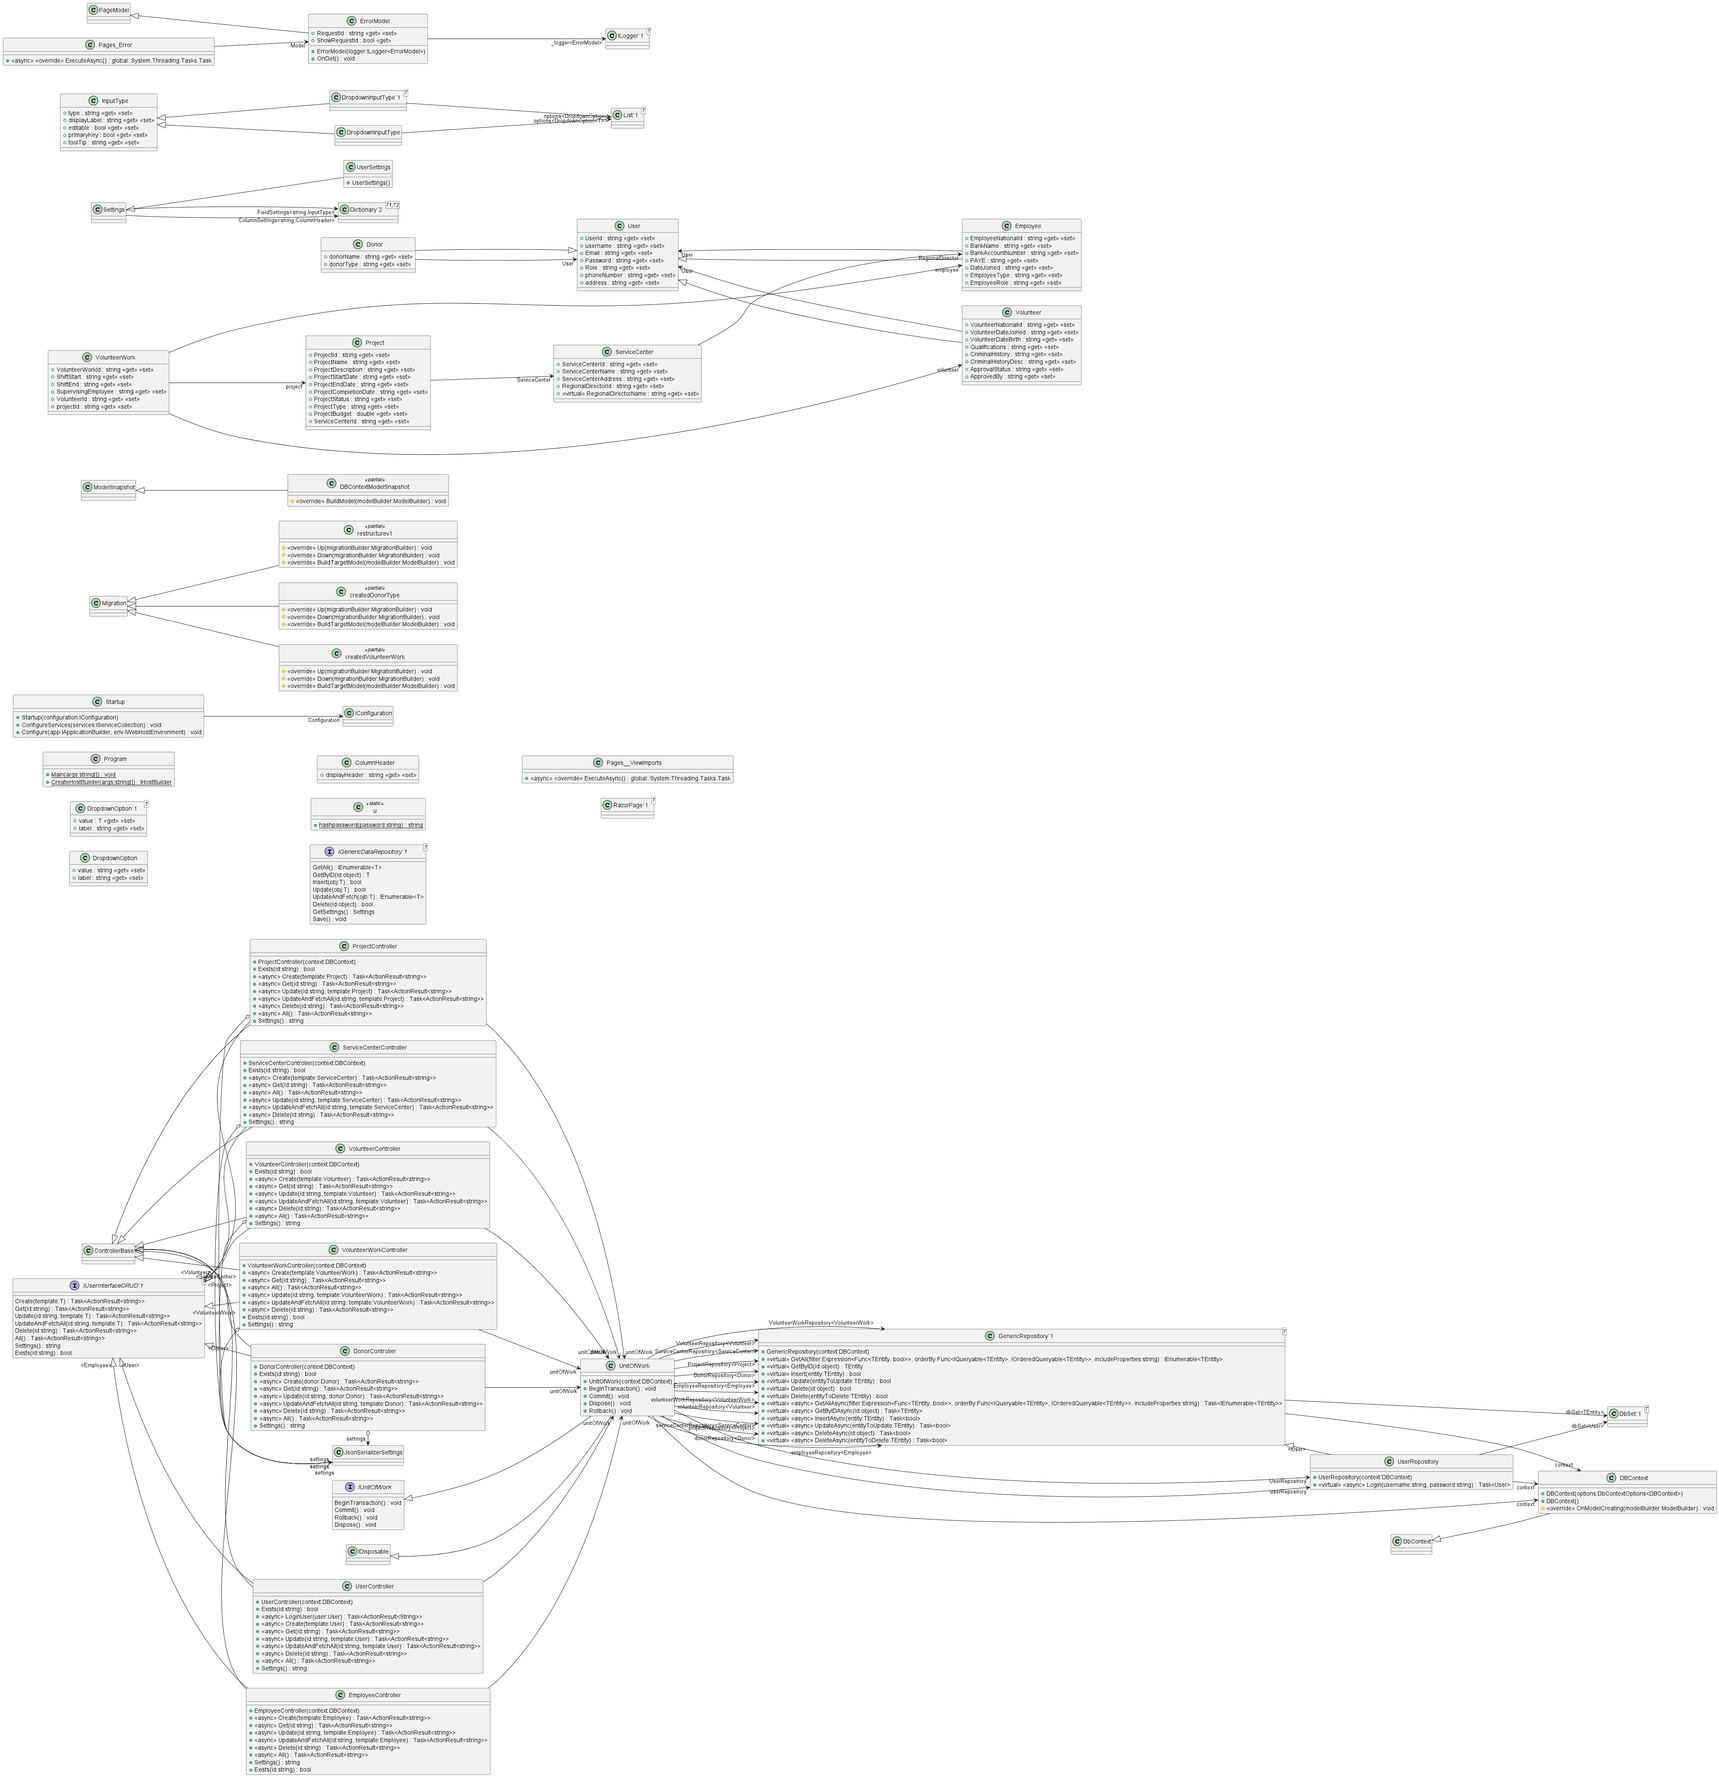
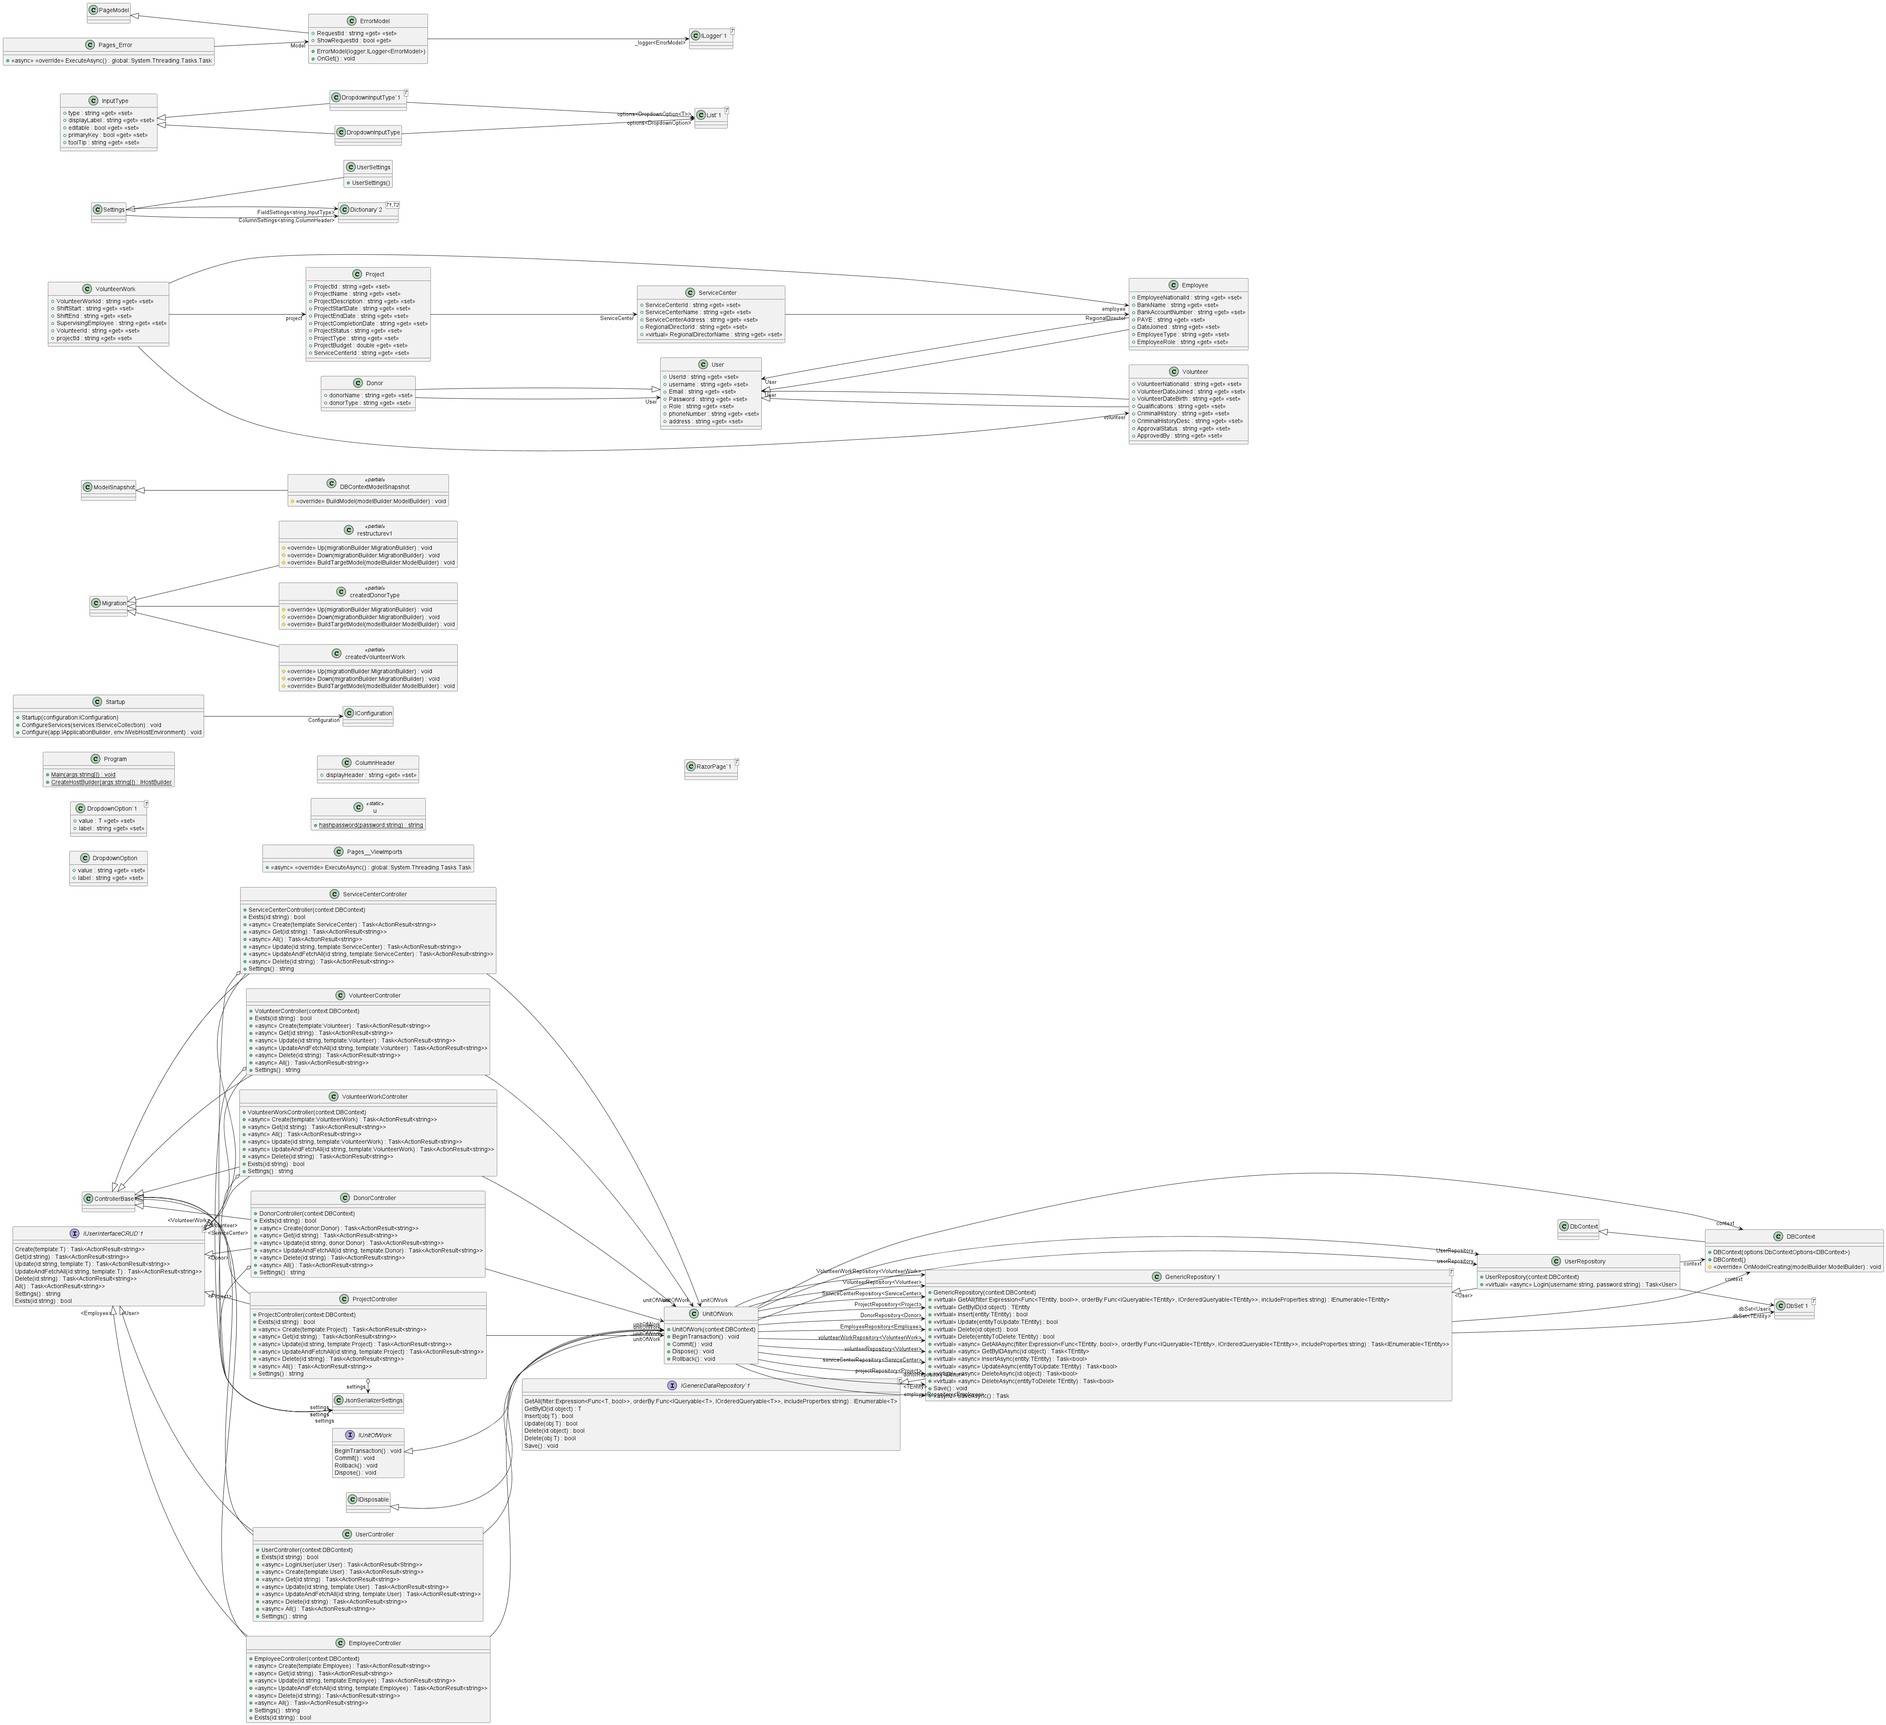
code cleanup

diff --git a/YouthActionDotNet/ClientApp/src/App.js b/YouthActionDotNet/ClientApp/src/App.js
@@ -131,7 +131,7 @@ class LoggedInNav extends React.Component {
   render() {
 
     return (
-      <Nav user={this.props.user} title={this.state.title
+      <Nav user={this.props.data} title={this.state.title
       } toggle={this.props.toggle} show={this.props.show}>
       </Nav>
     )

diff --git a/YouthActionDotNet/Controllers/UserController.cs b/YouthActionDotNet/Controllers/UserController.cs
@@ -38,7 +38,7 @@ namespace YouthActionDotNet.Controllers
             {
                 return JsonConvert.SerializeObject(new { success = false, message = "Invalid Username or Password" });
             }
-            return JsonConvert.SerializeObject(new { success = true, message = "Login Successful", user=validLoginUser });
+            return JsonConvert.SerializeObject(new { success = true, message = "Login Successful", data=validLoginUser });
         }
         
 
@@ -50,11 +50,11 @@ namespace YouthActionDotNet.Controllers
             if(existingUser != null){
                 return JsonConvert.SerializeObject(new { success = false, message = "User Already Exists" });
             }
-            template.UserId = Guid.NewGuid().ToString();
-            template.Password = u.hashpassword(template.Password);
-            await unitOfWork.UserRepository.InsertAsync(template);
-            unitOfWork.Commit();
-            var createdUser = await unitOfWork.UserRepository.GetByIDAsync(template.UserId);
+            
+            var createdUser = await unitOfWork.UserRepository.Register(template.username, template.Password);
+            if(createdUser == null){
+                return JsonConvert.SerializeObject(new { success = false, message = "Unexpected Error" });
+            }
             return JsonConvert.SerializeObject(new { success = true, data = template, message = "User Successfully Created" });
         }
 
@@ -79,7 +79,7 @@ namespace YouthActionDotNet.Controllers
             unitOfWork.UserRepository.Update(template);
             try
             {
-                unitOfWork.Commit();
+                await unitOfWork.UserRepository.SaveAsync();
                 return await Get(id);
             }
             catch (DbUpdateConcurrencyException)
@@ -105,7 +105,7 @@ namespace YouthActionDotNet.Controllers
             unitOfWork.UserRepository.Update(template);
             try
             {
-                unitOfWork.Commit();
+                await unitOfWork.UserRepository.SaveAsync();
                 return await All();
             }
             catch (DbUpdateConcurrencyException)

diff --git a/YouthActionDotNet/DAL/UserRepository.cs b/YouthActionDotNet/DAL/UserRepository.cs
@@ -1,3 +1,4 @@
+using System;
 using System.Threading.Tasks;
 using Microsoft.EntityFrameworkCore;
 using YouthActionDotNet.Data;
@@ -7,9 +8,6 @@ namespace YouthActionDotNet.DAL
 {
     public class UserRepository : GenericRepository<User>
     {   
-        internal DBContext context;
-        internal DbSet<User> dbSet;
-
         public UserRepository(DBContext context) : base(context)
         {
             this.context = context;
@@ -24,6 +22,31 @@ namespace YouthActionDotNet.DAL
                 return null;
             return user;
         }
-    
+
+        public virtual async Task<User> Register(string username, string password){
+            
+            System.Diagnostics.Debug.WriteLine(username);
+            System.Diagnostics.Debug.WriteLine(password);
+
+            Console.WriteLine(username);
+            Console.WriteLine(password);
+
+            string hashedPassword = u.hashpassword(password);
+            User template = new User();
+            template.username = username;
+            template.Password = hashedPassword;
+            
+            System.Diagnostics.Debug.WriteLine(template.UserId);
+            System.Diagnostics.Debug.WriteLine(template.username);
+            System.Diagnostics.Debug.WriteLine(template.Password);
+
+            var user = await dbSet.FirstOrDefaultAsync(u => u.username == template.username);
+            if (user == null){
+                dbSet.Add(template);
+                context.SaveChanges();
+                return await dbSet.FirstOrDefaultAsync(u => u.username == template.username && u.Password == hashedPassword);
+            }
+            return null;
+        }
     }
 }

diff --git a/YouthActionDotNet/Controllers/VolunteerWorkController.cs b/YouthActionDotNet/Controllers/VolunteerWorkController.cs
@@ -31,7 +31,6 @@ namespace YouthActionDotNet.Controllers
         [HttpPost("Create")]
         public async Task<ActionResult<string>> Create(VolunteerWork template)
         {
-            template.VolunteerWorkId = Guid.NewGuid().ToString();
             var volunteerWork = await unitOfWork.VolunteerWorkRepository.InsertAsync(template);
             return JsonConvert.SerializeObject(new { success = true, message = "Volunteer Work Created", data = volunteerWork }, settings);
         }
@@ -64,7 +63,7 @@ namespace YouthActionDotNet.Controllers
             await unitOfWork.VolunteerWorkRepository.UpdateAsync(template);
             try
             {
-                unitOfWork.Commit();
+                await unitOfWork.VolunteerRepository.SaveAsync();
                 return JsonConvert.SerializeObject(new { success = true, message = "Volunteer Work Successfully Updated" }, settings);
             }
             catch (DbUpdateConcurrencyException)
@@ -90,7 +89,7 @@ namespace YouthActionDotNet.Controllers
             await unitOfWork.VolunteerWorkRepository.UpdateAsync(template);
             try
             {
-                unitOfWork.Commit();
+                await unitOfWork.VolunteerRepository.SaveAsync();
                 var volunteerWork = await unitOfWork.VolunteerWorkRepository.GetAllAsync();
                 return JsonConvert.SerializeObject(new { success = true, data = volunteerWork, message = "Volunteer Work Successfully Updated" }, settings);
             }

diff --git a/YouthActionDotNet/Controllers/ServiceCenterController.cs b/YouthActionDotNet/Controllers/ServiceCenterController.cs
@@ -34,7 +34,6 @@ namespace YouthActionDotNet.Controllers
         [HttpPost("Create")]
         public async Task<ActionResult<string>> Create(ServiceCenter template)
         {
-            template.ServiceCenterId = Guid.NewGuid().ToString();
             var serviceCenter = await unitOfWork.ServiceCenterRepository.InsertAsync(template);
             return JsonConvert.SerializeObject(new { success = true, message = "Service Center Created", data = serviceCenter }, settings);
         }
@@ -65,7 +64,7 @@ namespace YouthActionDotNet.Controllers
             await unitOfWork.ServiceCenterRepository.UpdateAsync(template);
             try
             {
-                unitOfWork.Commit();
+                await unitOfWork.ServiceCenterRepository.SaveAsync();
                 return JsonConvert.SerializeObject(new { success = true, message = "Service Center Updated", data = template }, settings);
 
             }
@@ -91,7 +90,7 @@ namespace YouthActionDotNet.Controllers
             await unitOfWork.ServiceCenterRepository.UpdateAsync(template);
             try
             {
-                unitOfWork.Commit();
+                await unitOfWork.ServiceCenterRepository.SaveAsync();
                 var serviceCenter = await unitOfWork.ServiceCenterRepository.GetAllAsync();
                 return JsonConvert.SerializeObject(new { success = true, data = serviceCenter, message = "Service Center Updated" });
             }

diff --git a/YouthActionDotNet/Controllers/EmployeeController.cs b/YouthActionDotNet/Controllers/EmployeeController.cs
@@ -34,7 +34,6 @@ namespace YouthActionDotNet.Controllers
             if(existingEmployee != null){
                 return JsonConvert.SerializeObject(new { success = false, message = "Employee Already Exists" });
             }
-            template.UserId = Guid.NewGuid().ToString();
             template.Password = u.hashpassword(template.Password);
             await unitOfWork.EmployeeRepository.InsertAsync(template);
             unitOfWork.Commit();
@@ -62,7 +61,7 @@ namespace YouthActionDotNet.Controllers
             await unitOfWork.EmployeeRepository.UpdateAsync(template);
             try
             {
-                unitOfWork.Commit();
+                await unitOfWork.EmployeeRepository.SaveAsync();
                 return JsonConvert.SerializeObject(new { success = true, data = template, message = "Employee Successfully Updated" });
             }
             catch (DbUpdateConcurrencyException)
@@ -87,7 +86,7 @@ namespace YouthActionDotNet.Controllers
             await unitOfWork.EmployeeRepository.UpdateAsync(template);
             try
             {
-                unitOfWork.Commit();
+                await unitOfWork.EmployeeRepository.SaveAsync();
                 var employees = await unitOfWork.EmployeeRepository.GetAllAsync();
                 return JsonConvert.SerializeObject(new { success = true, data = employees, message = "Employee Successfully Updated" });
             }

diff --git a/YouthActionDotNet/Controllers/ProjectController.cs b/YouthActionDotNet/Controllers/ProjectController.cs
@@ -35,7 +35,6 @@ namespace YouthActionDotNet.Controllers
         public async Task<ActionResult<string>> Create(Project template)
         {
 
-            template.ProjectId = Guid.NewGuid().ToString();
             var project = await unitOfWork.ProjectRepository.InsertAsync(template);
             return JsonConvert.SerializeObject(new { success = true, message = "Project Created", data = project }, settings);
         }
@@ -61,7 +60,7 @@ namespace YouthActionDotNet.Controllers
             await unitOfWork.ProjectRepository.UpdateAsync(template);
             try
             {
-                unitOfWork.Commit();
+                await unitOfWork.ProjectRepository.SaveAsync();
                 return JsonConvert.SerializeObject(new { success = true, data = template, message = "Project Successfully Updated" });
             }
             catch (DbUpdateConcurrencyException)
@@ -87,7 +86,7 @@ namespace YouthActionDotNet.Controllers
             await unitOfWork.ProjectRepository.UpdateAsync(template);
             try
             {
-                unitOfWork.Commit();
+                await unitOfWork.ProjectRepository.SaveAsync();
                 var projects = await unitOfWork.ProjectRepository.GetAllAsync();
                 return JsonConvert.SerializeObject(new { success = true, data = projects, message = "Project Successfully Updated" });
             }

diff --git a/YouthActionDotNet/Controllers/VolunteerController.cs b/YouthActionDotNet/Controllers/VolunteerController.cs
@@ -38,7 +38,6 @@ namespace YouthActionDotNet.Controllers
             if(existingVolunteer != null){
                 return JsonConvert.SerializeObject(new { success = false, message = "Volunteer Already Exists" });
             }
-            template.UserId = Guid.NewGuid().ToString();
             template.Password = u.hashpassword(template.Password);
             await unitOfWork.VolunteerRepository.InsertAsync(template);
             unitOfWork.Commit();
@@ -88,7 +87,7 @@ namespace YouthActionDotNet.Controllers
             }
             unitOfWork.VolunteerRepository.Update(template);
             try{
-                unitOfWork.Commit();
+                unitOfWork.VolunteerRepository.Save();
                 return await All();
             }
             catch (DbUpdateConcurrencyException)
@@ -113,7 +112,7 @@ namespace YouthActionDotNet.Controllers
                 return JsonConvert.SerializeObject(new { success = false, data = "", message = "Volunteer Not Found" });
             }
             unitOfWork.VolunteerRepository.Delete(volunteer);
-            unitOfWork.Commit();
+            unitOfWork.VolunteerRepository.Save();
             return JsonConvert.SerializeObject(new { success = true, data = "", message = "Volunteer Successfully Deleted" });
         }
 

diff --git a/YouthActionDotNet/Controllers/DonorController.cs b/YouthActionDotNet/Controllers/DonorController.cs
@@ -39,7 +39,6 @@ namespace YouthActionDotNet.Controllers
             if(existingDonor != null){
                 return JsonConvert.SerializeObject(new { success = false, message = "Donor Already Exists" });
             }
-            donor.UserId = Guid.NewGuid().ToString();
             donor.Password = u.hashpassword(donor.Password);
             await unitOfWork.DonorRepository.InsertAsync(donor);
             unitOfWork.Commit();
@@ -66,7 +65,7 @@ namespace YouthActionDotNet.Controllers
             }
             unitOfWork.DonorRepository.Update(donor);
             try{
-                unitOfWork.Commit();
+                await unitOfWork.DonorRepository.SaveAsync();
                 return await Get(id);
             }
             catch (DbUpdateConcurrencyException)
@@ -90,7 +89,7 @@ namespace YouthActionDotNet.Controllers
             }
             unitOfWork.DonorRepository.Update(template);
             try{
-                unitOfWork.Commit();
+                await unitOfWork.DonorRepository.SaveAsync();
                 return await All();
             }
             catch (DbUpdateConcurrencyException)

diff --git a/YouthActionDotNet/DAL/GenericRepository.cs b/YouthActionDotNet/DAL/GenericRepository.cs
@@ -5,10 +5,11 @@ using System.Linq.Expressions;
 using System.Threading.Tasks;
 using Microsoft.EntityFrameworkCore;
 using YouthActionDotNet.Data;
+using YouthActionDotNet.Models;
 
 namespace YouthActionDotNet.DAL
 {
-    public class GenericRepository<TEntity> where TEntity: class{
+    public class GenericRepository<TEntity> : IGenericDataRepository<TEntity> where TEntity: class {
         internal DBContext context;
         internal DbSet<TEntity> dbSet;
         
@@ -176,6 +177,16 @@ namespace YouthActionDotNet.DAL
             }catch{
                 return false;
             }
+        }
+
+        public void Save()
+        {
+            context.SaveChanges();
+        }
+
+        public async Task SaveAsync()
+        {
+            await context.SaveChangesAsync();
         }
     }
 }

diff --git a/YouthActionDotNet/DAL/Interfaces/IGenericDataRepository.cs b/YouthActionDotNet/DAL/Interfaces/IGenericDataRepository.cs
@@ -1,17 +1,22 @@
+using System;
 using System.Collections.Generic;
+using System.Linq;
+using System.Linq.Expressions;
 using YouthActionDotNet.Models;
 
 namespace YouthActionDotNet.DAL
 {
     public interface IGenericDataRepository<T> where T : class
     {
-        IEnumerable<T> GetAll();
+        IEnumerable<T> GetAll(Expression<Func<T, bool>> filter = null,
+            Func<IQueryable<T>, IOrderedQueryable<T>> orderBy = null,
+            string includeProperties = "");
         T GetByID(object id);
         bool Insert(T obj);
         bool Update(T obj);
-        IEnumerable<T> UpdateAndFetch(T ojb);
         bool Delete(object id);
-        Settings GetSettings();
+        bool Delete(T obj);
+
         void Save();
     }
 }

diff --git a/YouthActionDotNet/Models/VolunteerWork.cs b/YouthActionDotNet/Models/VolunteerWork.cs
@@ -1,3 +1,4 @@
+using System;
 using System.ComponentModel.DataAnnotations.Schema;
 using Newtonsoft.Json;
 
@@ -5,6 +6,10 @@ namespace YouthActionDotNet.Models
 {
     public class VolunteerWork
     {
+        VolunteerWork()
+        {
+            this.VolunteerWorkId = Guid.NewGuid().ToString();
+        }
         public string VolunteerWorkId { get; set; }
 
         public string ShiftStart { get; set; }
